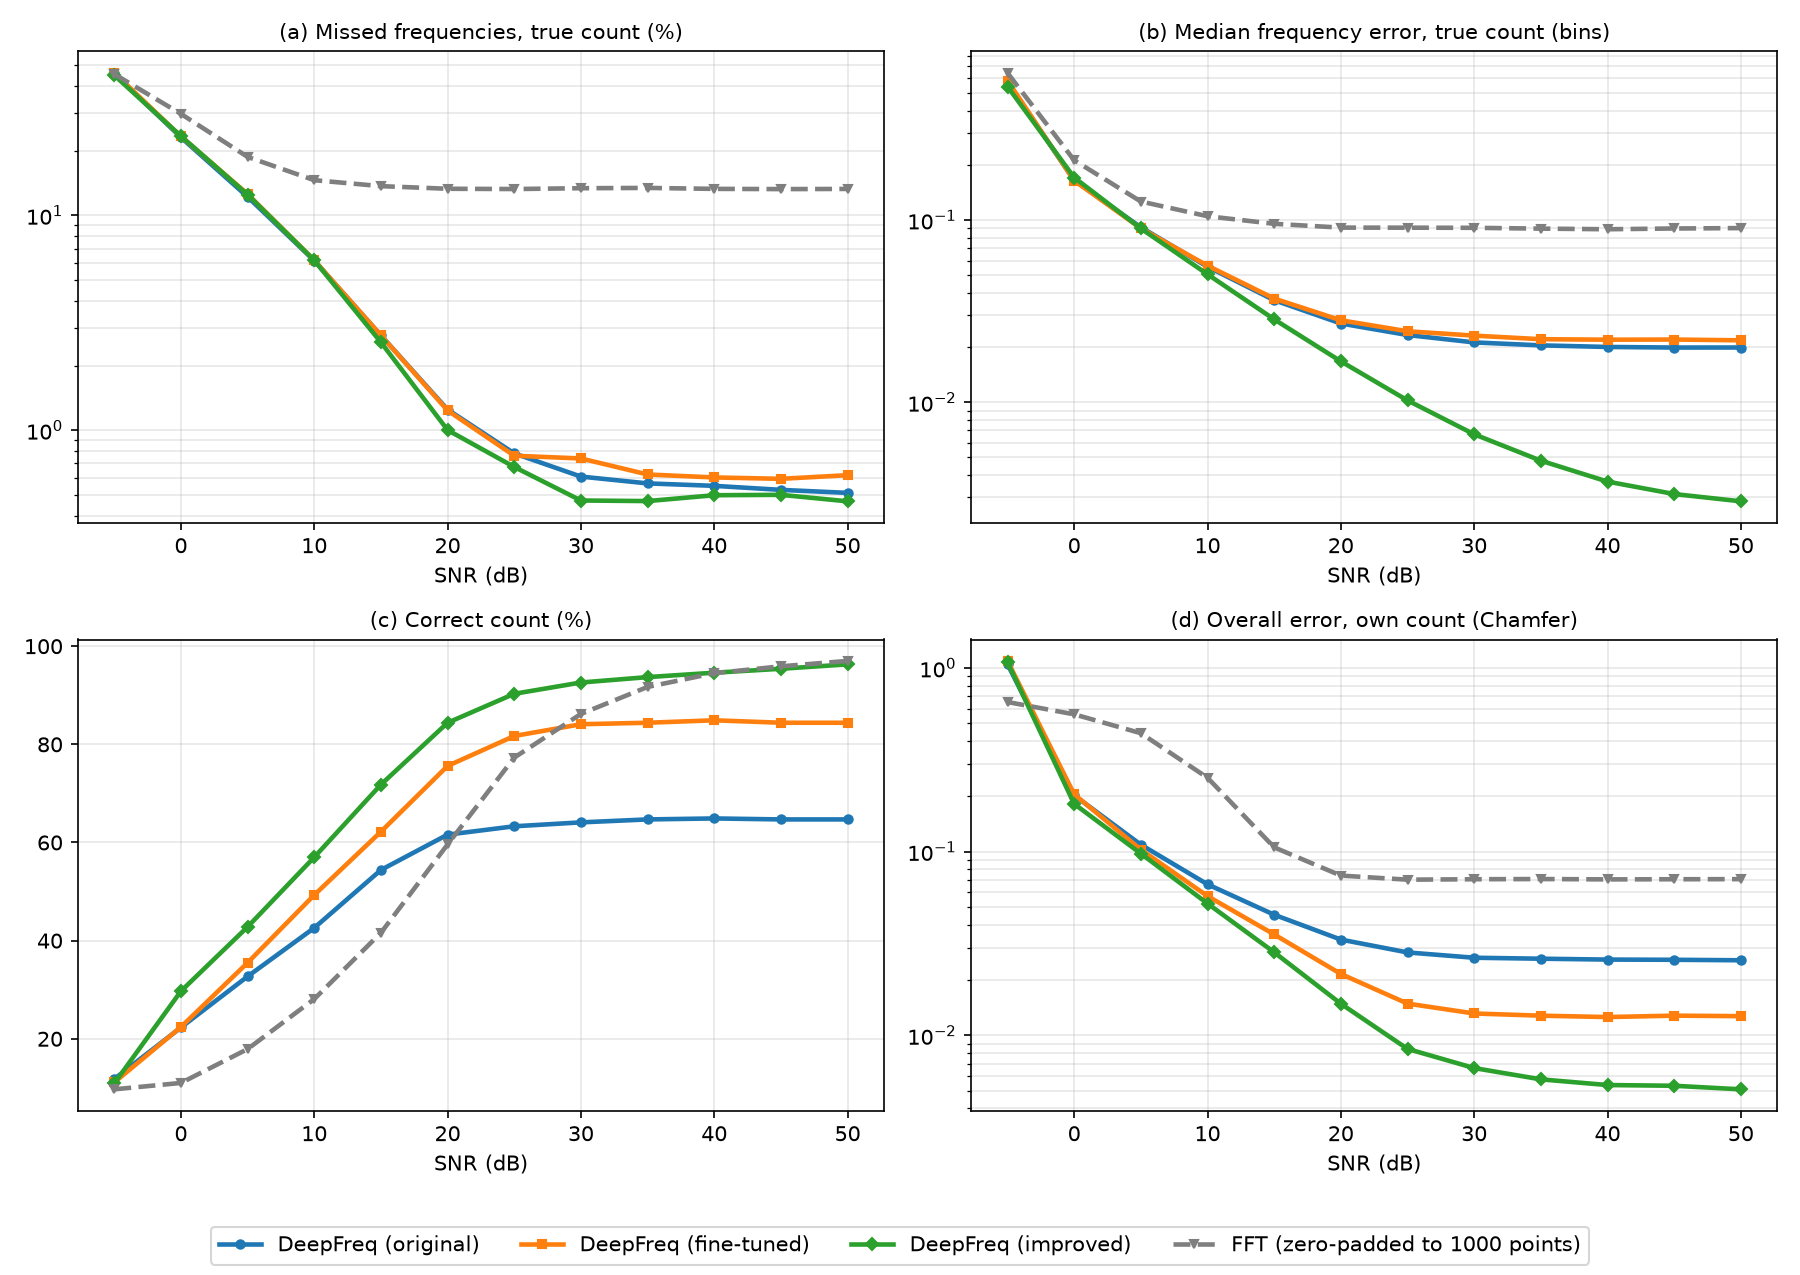
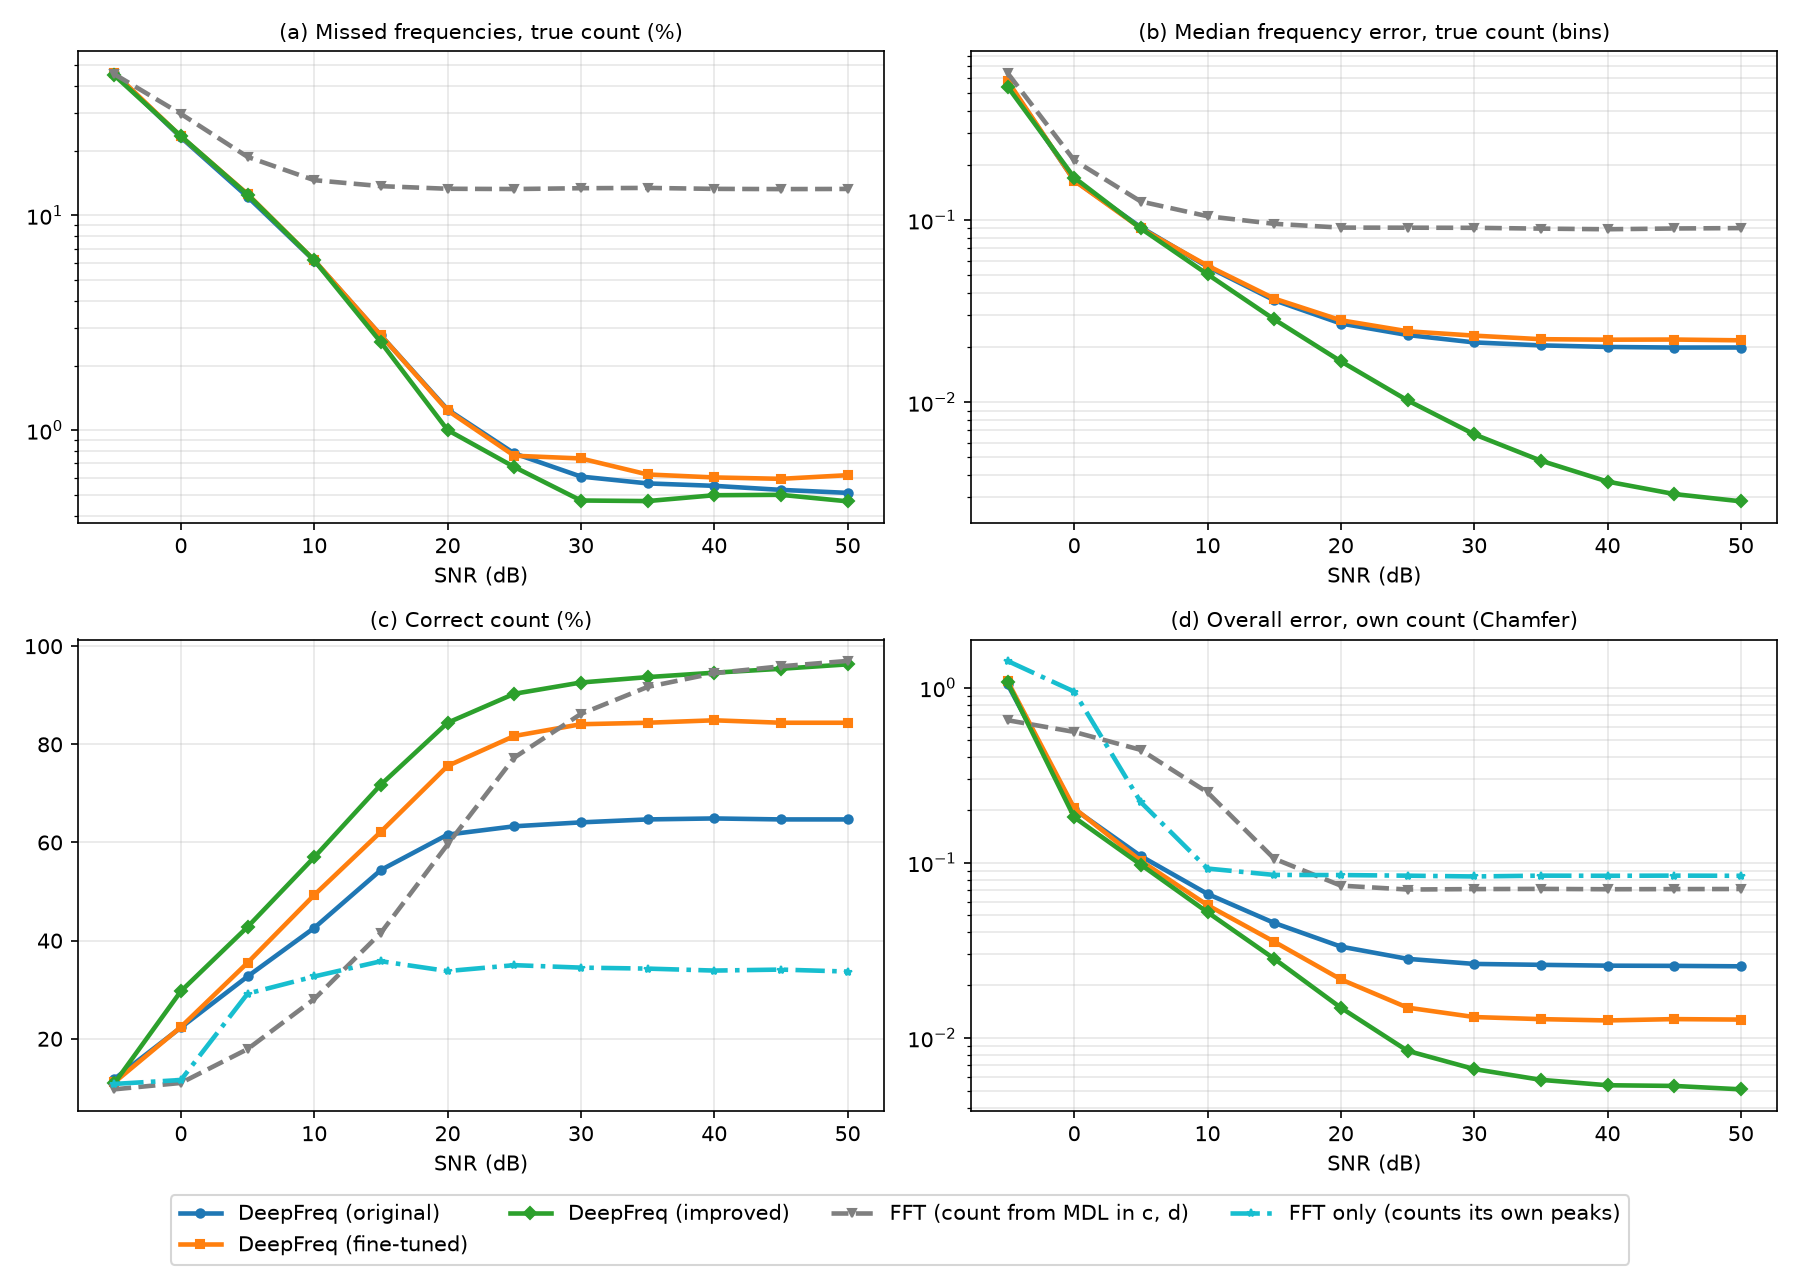
6_final_comparison: FFT-only peak counting (no MDL) and updated FFT figure

diff --git a/experiments/6_final_comparison/fft_peak_count.py b/experiments/6_final_comparison/fft_peak_count.py
@@ -1,0 +1,90 @@
+"""FFT on its own: count the FFT peaks instead of using MDL.
+
+The FFT spectrum (zero-padded to 1000 points, as in compare_all.py) is
+searched for peaks, and every peak at least `cut` times as tall as the
+tallest one is counted as a frequency (at most 10, at least 1).  `cut` is one
+number for all noise levels, picked on separate validation signals (new
+signals, seed 777, same generator and noise as the test sets) so the test sets
+are only used for the final numbers.
+
+Writes results/fft_peak_count.csv and redraws the figures via compare_all.plot().
+
+  python experiments/6_final_comparison/fft_peak_count.py
+"""
+
+import csv
+import json
+
+import numpy as np
+import scipy.signal
+import torch
+
+import sys
+from pathlib import Path
+sys.path.insert(0, str(Path(__file__).resolve().parents[1]))  # experiments/: common.py
+sys.path.insert(1, str(Path(__file__).resolve().parent))
+from common import XGRID, MAX_FREQ, load_test_set, to_complex, fnr_percent, chamfer, matched_median
+from data import fr, noise
+from data.data import gen_signal
+import compare_all
+
+SNRS = compare_all.SNRS
+CUTS = np.geomspace(1e-3, 0.5, 60)
+
+
+def peak_heights(spec):
+    """Sorted (tallest first) peak heights of each spectrum, relative to its tallest peak."""
+    out = []
+    for s in spec:
+        h = scipy.signal.find_peaks(s, height=(None, None))[1]["peak_heights"]
+        out.append(np.sort(h)[::-1] / h.max())
+    return out
+
+
+def counts_for(heights, cut):
+    return np.array([np.clip(np.sum(h >= cut), 1, MAX_FREQ) for h in heights])
+
+
+def validation_set():
+    np.random.seed(777)
+    torch.manual_seed(777)
+    s, f, _ = gen_signal(1000, 50, MAX_FREQ, 1.0, "normal", "normal_floor", 0.1, variable_num_freq=True)
+    counts = np.sum(f >= -0.5, axis=1)
+    sets = []
+    for snr in SNRS:
+        x = noise.noise_torch(torch.tensor(s), 10 ** (snr / 10), "gaussian").numpy()
+        sets.append(peak_heights(fr.periodogram(to_complex(x), XGRID)))
+    return sets, counts
+
+
+def main():
+    val, val_counts = validation_set()
+    acc = [np.mean([np.mean(counts_for(h, c) == val_counts) for h in val]) for c in CUTS]
+    cut = float(CUTS[int(np.argmax(acc))])
+    print(f"cut-off picked on validation: {cut:.4f} of the tallest peak "
+          f"(mean count accuracy {100 * max(acc):.1f}%)", flush=True)
+
+    rows = []
+    for snr in SNRS:
+        signals, targets, counts = load_test_set(snr)
+        spec = fr.periodogram(to_complex(signals), XGRID)
+        cnt = counts_for(peak_heights(spec), cut)
+        est = fr.find_freq(spec, cnt, XGRID, MAX_FREQ)
+        rows.append({"snr_db": snr, "method": "FFT only (peak count)", "fnr_true_count_percent": "",
+                     "median_err_true_count": "",
+                     "count_accuracy_percent": 100 * np.mean(cnt == counts),
+                     "chamfer_own_count": chamfer(est, targets),
+                     "mean_count_minus_true": float(np.mean(cnt - counts))})
+        print(rows[-1], flush=True)
+    with open(compare_all.OUT / "fft_peak_count.csv", "w", newline="") as fh:
+        w = csv.DictWriter(fh, fieldnames=rows[0].keys())
+        w.writeheader()
+        w.writerows(rows)
+    with open(compare_all.OUT / "fft_peak_count_cut.json", "w") as fh:
+        json.dump({"cut_fraction_of_tallest_peak": cut, "validation_mean_count_accuracy": float(max(acc))}, fh,
+                  indent=1)
+    compare_all.plot()
+
+
+if __name__ == "__main__":
+    main()

diff --git a/experiments/6_final_comparison/compare_all.py b/experiments/6_final_comparison/compare_all.py
@@ -56,7 +56,8 @@ METHODS = ["DeepFreq (original)", "DeepFreq (fine-tuned)", "DeepFreq (improved)"
 STYLE = {"DeepFreq (original)": ("#1f77b4", "o", "-"), "DeepFreq (fine-tuned)": ("#ff7f0e", "s", "-"),
          "DeepFreq (improved)": ("#2ca02c", "D", "-"), "Periodogram": ("#7f7f7f", "v", "--"),
          "MUSIC": ("#9467bd", "^", "--"), "ESPRIT": ("#8c564b", "<", "--"), "NOMP": ("#d62728", ">", "--"),
-         "CBLasso": ("#e377c2", "x", ":"), "CRB (best possible)": ("black", None, ":")}
+         "CBLasso": ("#e377c2", "x", ":"), "CRB (best possible)": ("black", None, ":"),
+         "FFT only (peak count)": ("#17becf", "*", "-.")}
 
 
 def build_methods():
@@ -215,7 +216,12 @@ def plot_fft(rows, panels):
     is the FFT: |FFT|^2 of the signal zero-padded to the same 1000-point grid as
     the FR model, then the highest peaks are picked (count from MDL)."""
     lines = {"DeepFreq (original)": "DeepFreq (original)", "DeepFreq (fine-tuned)": "DeepFreq (fine-tuned)",
-             "DeepFreq (improved)": "DeepFreq (improved)", "Periodogram": "FFT (zero-padded to 1000 points)"}
+             "DeepFreq (improved)": "DeepFreq (improved)", "Periodogram": "FFT (count from MDL in c, d)"}
+    peak_csv = OUT / "fft_peak_count.csv"   # written by fft_peak_count.py
+    if peak_csv.exists():
+        with open(peak_csv) as fh:
+            rows = rows + list(csv.DictReader(fh))
+        lines["FFT only (peak count)"] = "FFT only (counts its own peaks)"
     fig, axes = plt.subplots(2, 2, figsize=(12, 8.5))
     for ax, (key, label, logy, tag) in zip(axes.flat, panels):
         for m, shown in lines.items():

diff --git a/experiments/6_final_comparison/README.md b/experiments/6_final_comparison/README.md
@@ -110,3 +110,20 @@ line against the three DeepFreq versions.
   learned to draw sharp peaks even for close frequencies.
 - The FFT itself has no way to count; here it uses MDL, which is worse than the
   DeepFreq counters below 25 dB and similar above.
+
+## FFT on its own (no MDL)
+
+`fft_peak_count.py` lets the FFT count its own peaks: every peak at least
+0.068 times as tall as the tallest one counts as a frequency (one cut-off for
+all noise levels, picked on 1000 separate validation signals, seed 777). It is
+the cyan line in `fig_fft_vs_deepfreq.png`; in (a) and (b) it is the same as
+the FFT line, since those use the true count.
+
+- Correct count stays at about 34 % from 10 dB up (MDL: 97 % at 50 dB;
+  improved DeepFreq: 96 %). Even the best cut-off chosen separately for each
+  noise level gets at most 37 % on the validation signals.
+- With little noise it counts about 1 too few on average: merged peaks and
+  weak frequencies hidden by side lobes never show up as separate peaks.
+- At 0 dB and below it counts 3–4 too many: noise bumps pass the cut-off.
+- So counting FFT peaks runs into the same resolution and side-lobe limits
+  as finding them; MDL avoids that by working on the raw signal.
